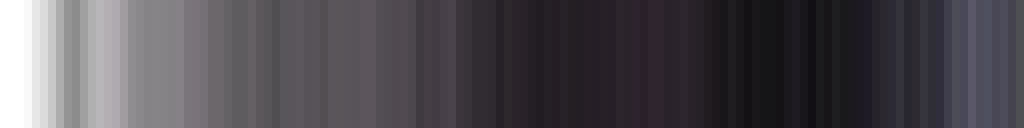
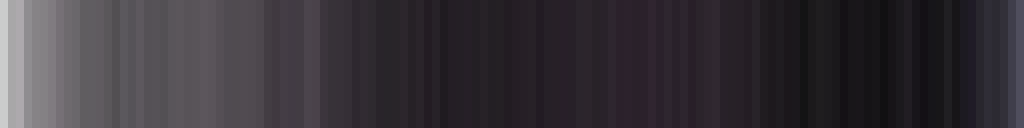
Give the radial axis rings of equal area
Rings of equal width held 4 to 1,132 pixels each on a 256 px image, so a few noisy center pixels took as much of the strip as the widest ring. The radial axis now orders pixels by distance from the center and cuts them into equal runs, like the Hilbert and color axes: every ring holds 512 pixels. The six radial reference strips are regenerated.

diff --git a/packages/strip/src/radial-axis.ts b/packages/strip/src/radial-axis.ts
@@ -6,25 +6,26 @@ import type { StripAxis } from './strip-axis.ts';
 const PIXEL_CENTER = 0.5;
 
 /**
- * Reads an image from its center outward: each segment is a ring of equal width, and the rings
- * reach into the corners, so that every pixel belongs to one.
+ * Reads an image from its center outward: its pixels in order of their distance from the center,
+ * cut into runs of equal length. Each segment is a ring holding an equal share of the pixels, like
+ * the segments of every other axis, so the rings grow thinner away from the center, and reach
+ * into the corners.
  */
 export class RadialAxis implements StripAxis {
   sourceMap({ width, height }: RgbaImage, segments: number): SourceMap {
     const centerX = width / 2;
     const centerY = height / 2;
-    const reach = Math.hypot(centerX, centerY);
-    // Rings at least a pixel wide, so that none is empty.
-    const count = Math.max(1, Math.min(segments, Math.floor(reach)));
-    const map = new Int32Array(width * height);
+    // Squared distances, which order the pixels the same way without a square root.
+    const distances = new Float64Array(width * height);
     for (let y = 0; y < height; y++) {
       const dy = y + PIXEL_CENTER - centerY;
       for (let x = 0; x < width; x++) {
         const dx = x + PIXEL_CENTER - centerX;
-        const distance = Math.sqrt(dx * dx + dy * dy);
-        map[y * width + x] = Math.min(count - 1, Math.floor((distance / reach) * count));
+        distances[y * width + x] = dx * dx + dy * dy;
       }
     }
-    return new SourceMap(width, height, count, map);
+    // Pixels at the same distance keep their reading order.
+    const outward = Uint32Array.from(distances.keys()).sort((a, b) => distances[a] - distances[b] || a - b);
+    return SourceMap.fromSequence(width, height, outward, segments);
   }
 }

diff --git a/packages/strip/src/strip.test.ts b/packages/strip/src/strip.test.ts
@@ -36,11 +36,12 @@ describe('Strip', () => {
     expect(hexes(Strip.read(picture, new ColumnAxis(), 2))).toEqual(['#bc0000', '#bcbcff']);
   });
 
-  it('reads rings from the center outward', () => {
-    // A white 2×2 center inside a black border.
+  it('reads rings of equal area from the center outward', () => {
+    // A white 2×2 center inside a black border: the four pixels nearest the center fill the first
+    // of four rings, and the twelve around them the other three.
     const [B, W] = [BLACK, WHITE];
     const picture = image(4, B, B, B, B, B, W, W, B, B, W, W, B, B, B, B, B);
-    expect(hexes(Strip.read(picture, new RadialAxis(), 2))).toEqual(['#ffffff', '#000000']);
+    expect(hexes(Strip.read(picture, new RadialAxis(), 4))).toEqual(['#ffffff', '#000000', '#000000', '#000000']);
   });
 
   it('reads patches along the Hilbert curve, from the top-left corner around to the top-right', () => {
@@ -82,6 +83,7 @@ describe('Strip', () => {
   // Columns need a single row for every pixel to be a segment of its own.
   it.each([
     ['columns', new ColumnAxis(), 6],
+    ['rings', new RadialAxis(), 3],
     ['the Hilbert curve', new HilbertAxis(), 3],
     ['colors', colorAxis(2), 3],
   ])('restores the image exactly when every pixel is its own segment, reading %s', (_, axis, width) => {

diff --git a/packages/strip/src/axes.test.ts b/packages/strip/src/axes.test.ts
@@ -23,6 +23,27 @@ function noise(width: number, height: number): RgbaImage {
   return { width, height, data };
 }
 
+/** How many pixels of a width × height image each segment of the axis gets. */
+function pixelsPerSegment(axis: StripAxis, width: number, height: number, segments: number): number[] {
+  const map = axis.sourceMap(noise(width, height), segments);
+  const counts = new Array<number>(map.segmentCount).fill(0);
+  for (let y = 0; y < height; y++) {
+    for (let x = 0; x < width; x++) counts[map.segmentAt(x, y)]++;
+  }
+  return counts;
+}
+
+describe('RadialAxis', () => {
+  it('gives every ring the same number of pixels, give or take one', () => {
+    for (const [width, height] of [[7, 5], [64, 48], [256, 256], [256, 144]]) {
+      for (const segments of [3, 16, 128]) {
+        const counts = pixelsPerSegment(new RadialAxis(), width, height, segments);
+        expect(Math.max(...counts) - Math.min(...counts), `${width} × ${height}, ${segments} rings`).toBeLessThanOrEqual(1);
+      }
+    }
+  });
+});
+
 describe.each(AXES)('%s', (_, axis) => {
   it('puts every pixel in a segment and leaves no segment empty', () => {
     for (const [width, height] of SIZES) {

diff --git a/app/src/benchmark/main.ts b/app/src/benchmark/main.ts
@@ -22,8 +22,8 @@ root.innerHTML = `
       <li><b>Palette.</b> k-means in OKLab on our shrunk image; each color's share is the part of
         the image it stands for. The bars show the colors largest first, and along the shortest
         path through them (an exact TSP), where neighbors look most alike.</li>
-      <li><b>Strips.</b> The image read left to right, from the center out, along a Hilbert curve,
-        and by color. The Hilbert curve passes through every pixel without jumping, so each
+      <li><b>Strips.</b> The image read left to right, from the center out in rings of equal
+        area, along a Hilbert curve, and by color. The Hilbert curve passes through every pixel without jumping, so each
         segment is a compact patch and neighboring segments are neighboring patches. The color
         strip lays the palette along its shortest path, each color as long as its share, with its
         pixels running from the color before toward the color after. Each segment is the

diff --git a/CLAUDE.md b/CLAUDE.md
@@ -74,7 +74,7 @@ Both read strips through `ImageStrips.read(image)` in `strip`, the one place tha
 
 Two design decisions from day one:
 
-- **Source map in `strip`**: every segment of the strip remembers which pixels it came from. Hover linking and fold-back are built on it. `SourceMap` holds each pixel's segment (or `NO_SEGMENT`); `Strip.read(image, axis, segments)` averages every segment in linear light, and `foldBack()` paints each segment back over its own pixels. Segments are all equally long, so an axis gives something more room by giving it more segments. `SourceMap.fromSequence` cuts any ordering of the pixels into equal runs: the Hilbert axis orders them along its curve, and the color axis along its palette path, so each color gets segments in proportion to its share.
+- **Source map in `strip`**: every segment of the strip remembers which pixels it came from. Hover linking and fold-back are built on it. `SourceMap` holds each pixel's segment (or `NO_SEGMENT`); `Strip.read(image, axis, segments)` averages every segment in linear light, and `foldBack()` paints each segment back over its own pixels. Segments are all equally long, so an axis gives something more room by giving it more segments. `SourceMap.fromSequence` cuts any ordering of the pixels into equal runs: the radial axis orders them by distance from the center (so its rings have equal area), the Hilbert axis along its curve, and the color axis along its palette path, so each color gets segments in proportion to its share.
 - **Trace in `hnsw`**: every search can record its steps (visiting a node, comparing, descending a layer). The Lab only replays the record, so the animation shows the real code, not a simulation of it.
 
 **Color spaces** (decided Oct 4, 2026, after comparing them on the benchmark images):
